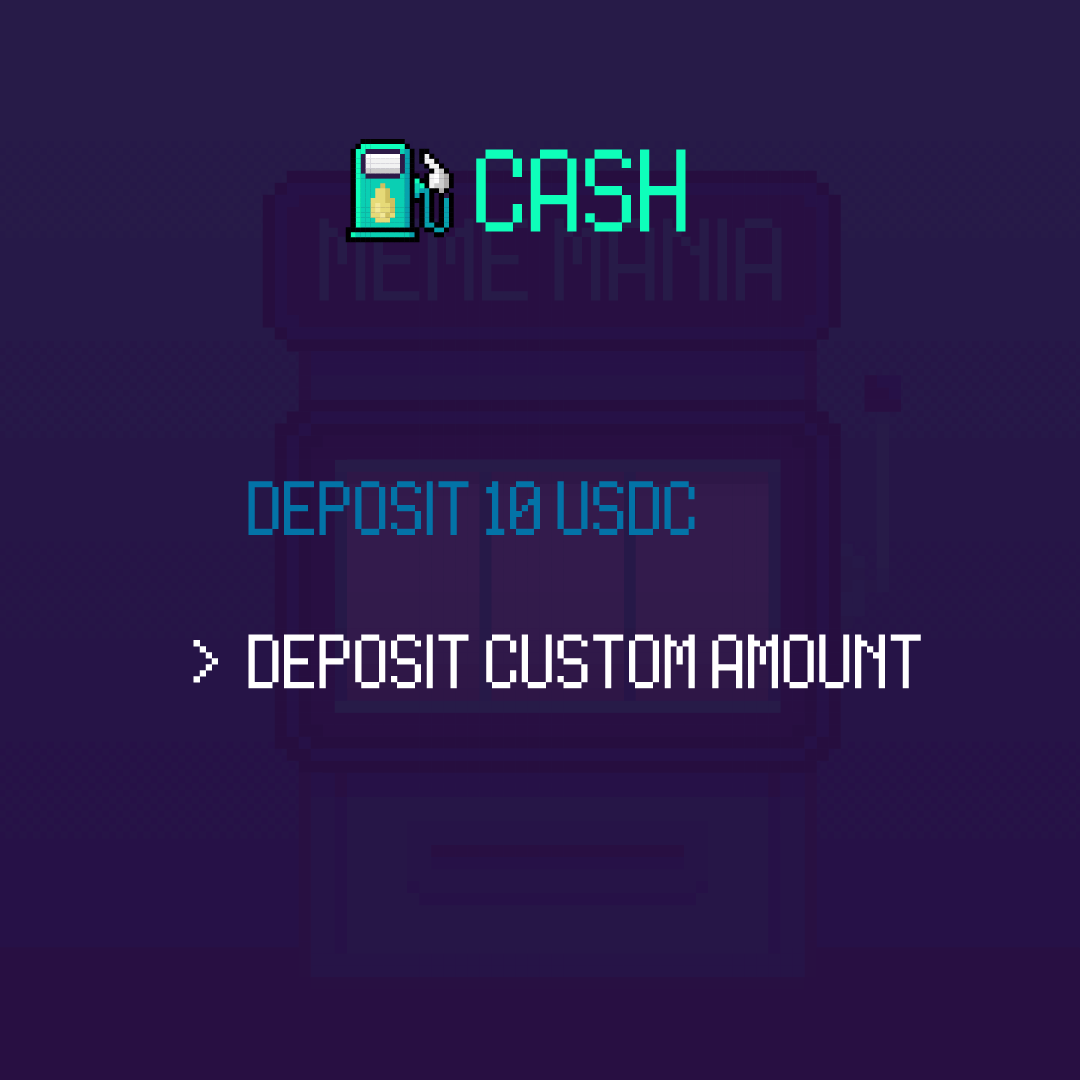
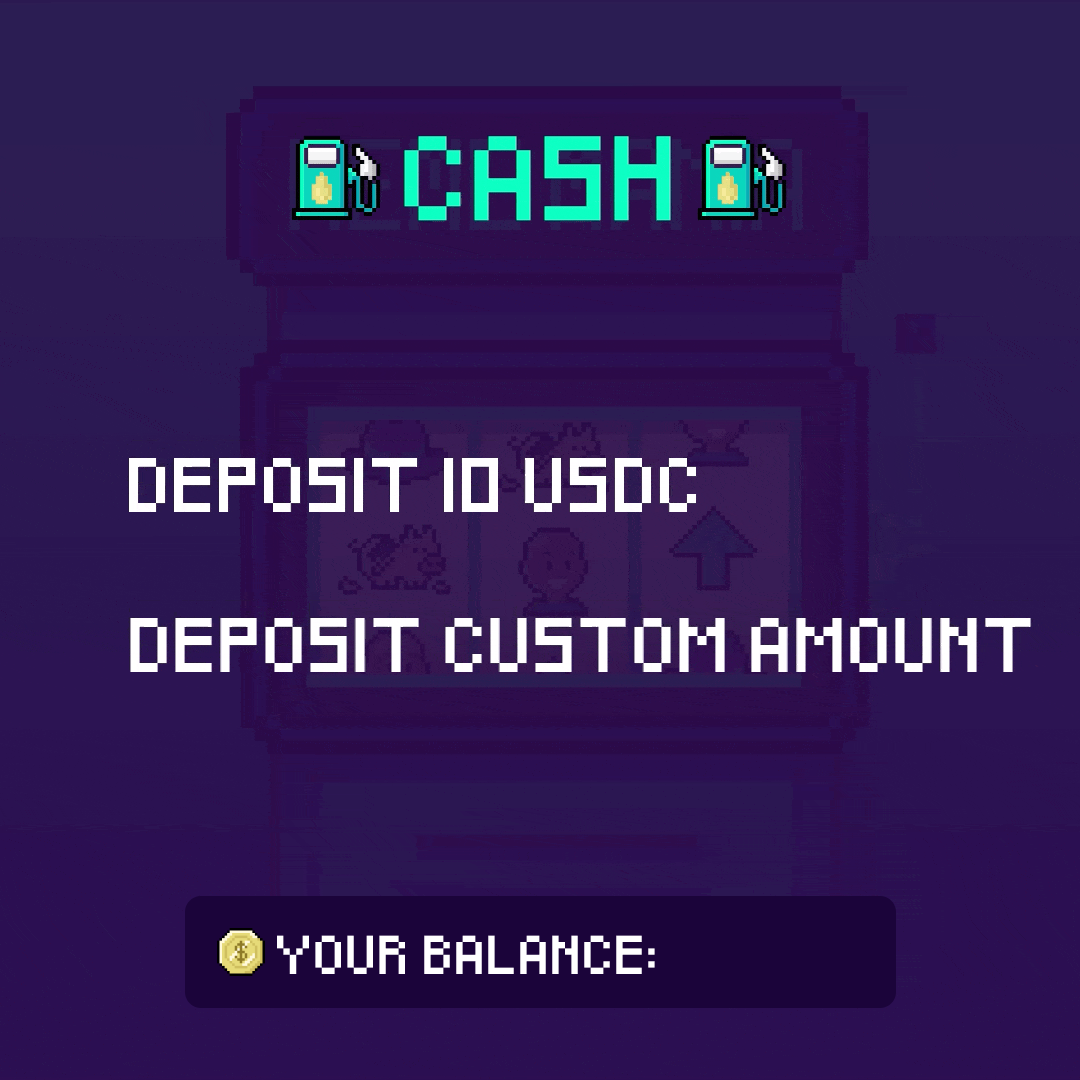
add deposit screen with available score

diff --git a/app/api/slot/image/deposit/route.jsx b/app/api/slot/image/deposit/route.jsx
@@ -2,17 +2,26 @@ import { fonts } from "@/components/game/fonts";
 import { ImageResponse } from "next/og";
 
 const handleRequest = async (req) => {
+  const urlParams = new URLSearchParams(req.url);
+  const player = JSON.parse(urlParams.get("player"));
+
   return new ImageResponse(
     (
       <div
-        tw="flex flex-col items-center justify-around w-full h-full"
+        tw="flex flex-col w-full h-full"
         style={{
-          backgroundImage: `url(${process.env.APP_URL}/artifacts/deposit.gif)`,
+          backgroundImage: `url(${process.env.APP_URL}/artifacts/deposit.png)`,
           backgroundSize: "100% 100%",
           backgroundRepeat: "no-repeat",
           backgroundPosition: "center",
         }}
-      ></div>
+      >
+        <div tw="flex flex-col mt-[1000px] items-end w-full h-full">
+          <span tw="flex text-[#0CFFC2] mr-[220px] text-[32px]">
+            {Number(100 || 0).toLocaleString()} USDC
+          </span>
+        </div>
+      </div>
     ),
     {
       headers: {

diff --git a/app/api/slot/route.jsx b/app/api/slot/route.jsx
@@ -14,7 +14,6 @@ import {
   getPlayWithId,
   getSessionWithId,
   updatePlayerAccount,
-  updateSession,
 } from "@/components/db/query";
 import { error } from "frames.js/core";
 import { Info } from "@/components/frames/Info";
@@ -125,6 +124,7 @@ const handleRequest = frames(async (ctx) => {
         ctx,
         sessionId,
         message: `Your Balance: ${playAmountBalance} USDC`,
+        player,
       });
     } else if (action === "Play") {
       return Play({ ctx, sessionId, player });
@@ -141,7 +141,9 @@ const handleRequest = frames(async (ctx) => {
       ) {
         return Deposit({
           ctx,
+          sessionId,
           message: `Your Balance: ${playAmountBalance} USDC`,
+          player,
         });
       }
       return Outcome({ ctx, sessionId, player });

diff --git a/components/frames/Deposit.jsx b/components/frames/Deposit.jsx
@@ -1,8 +1,10 @@
 import { Button } from "frames.js/next";
 import { fonts } from "../game/fonts";
 
-export const Deposit = async ({ ctx, message, sessionId }) => {
-  const imageUrl = `${process.env.APP_URL}/artifacts/deposit.gif`;
+export const Deposit = async ({ ctx, message, sessionId, player }) => {
+  const imageUrl = `${
+    process.env.APP_URL
+  }/api/slot/image/deposit?id=${Date.now()}&&player=${JSON.stringify(player)}`;
 
   console.log("Response returns", Date.now());
   return {
